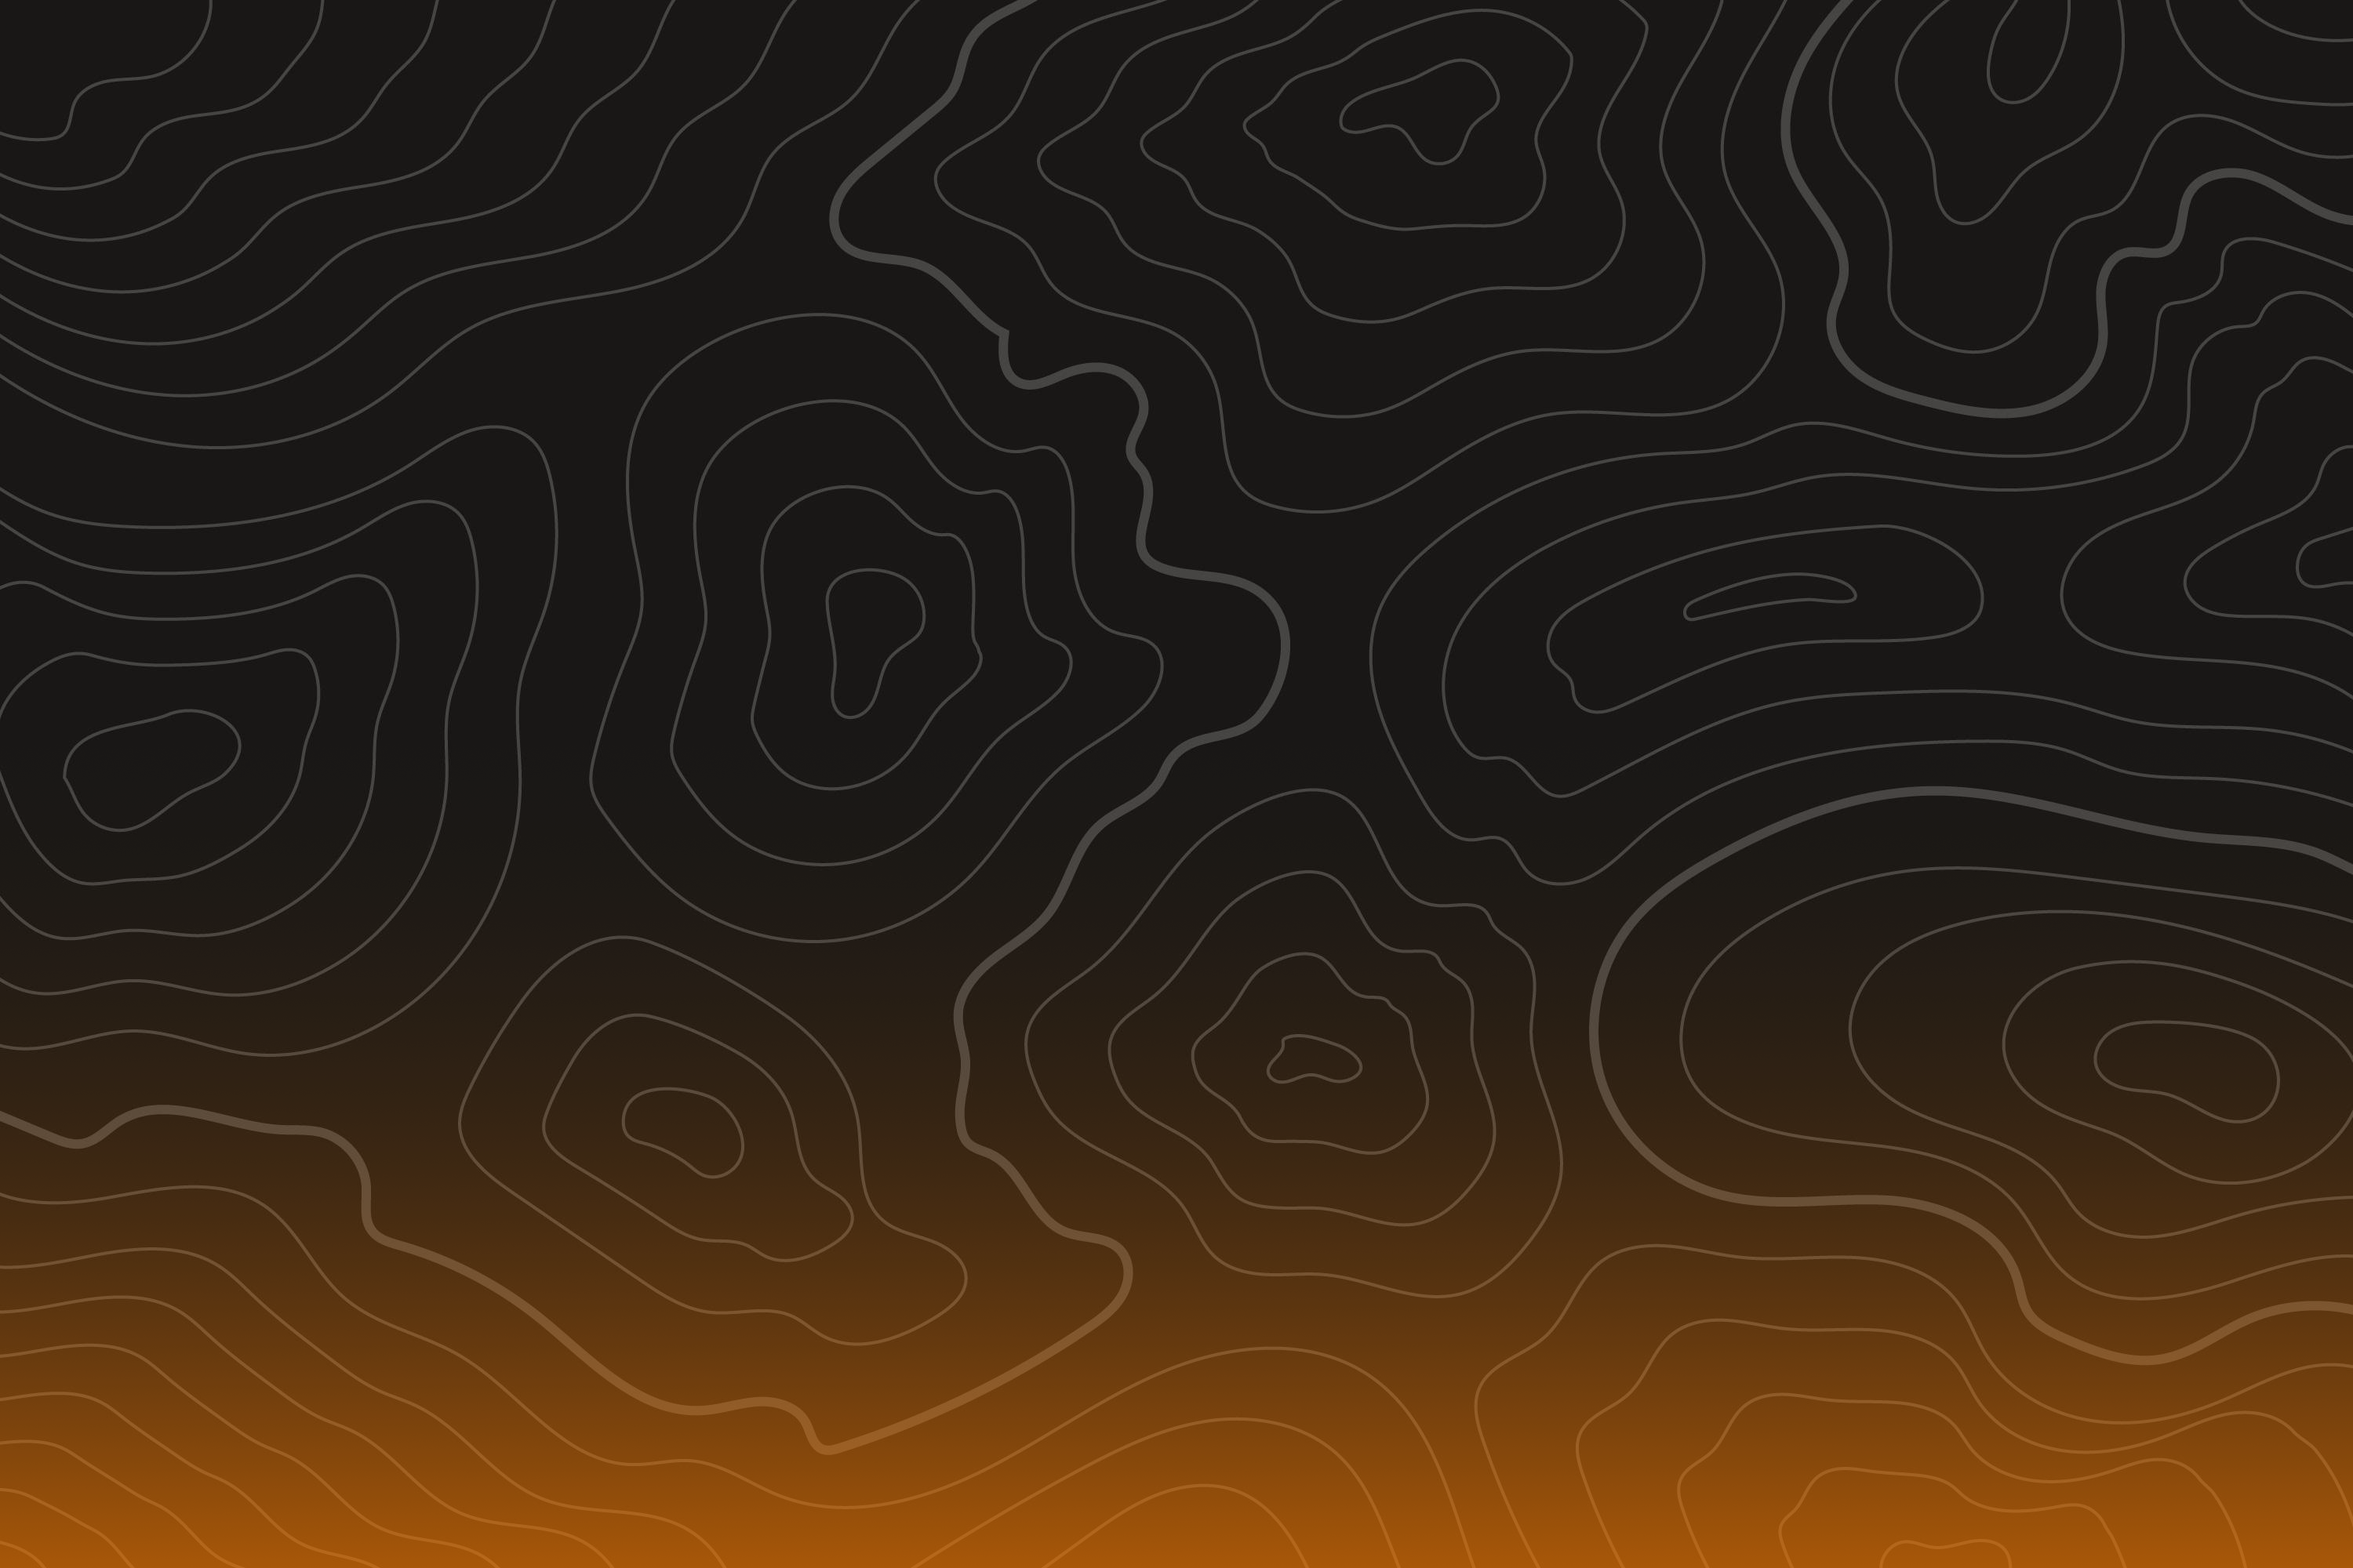
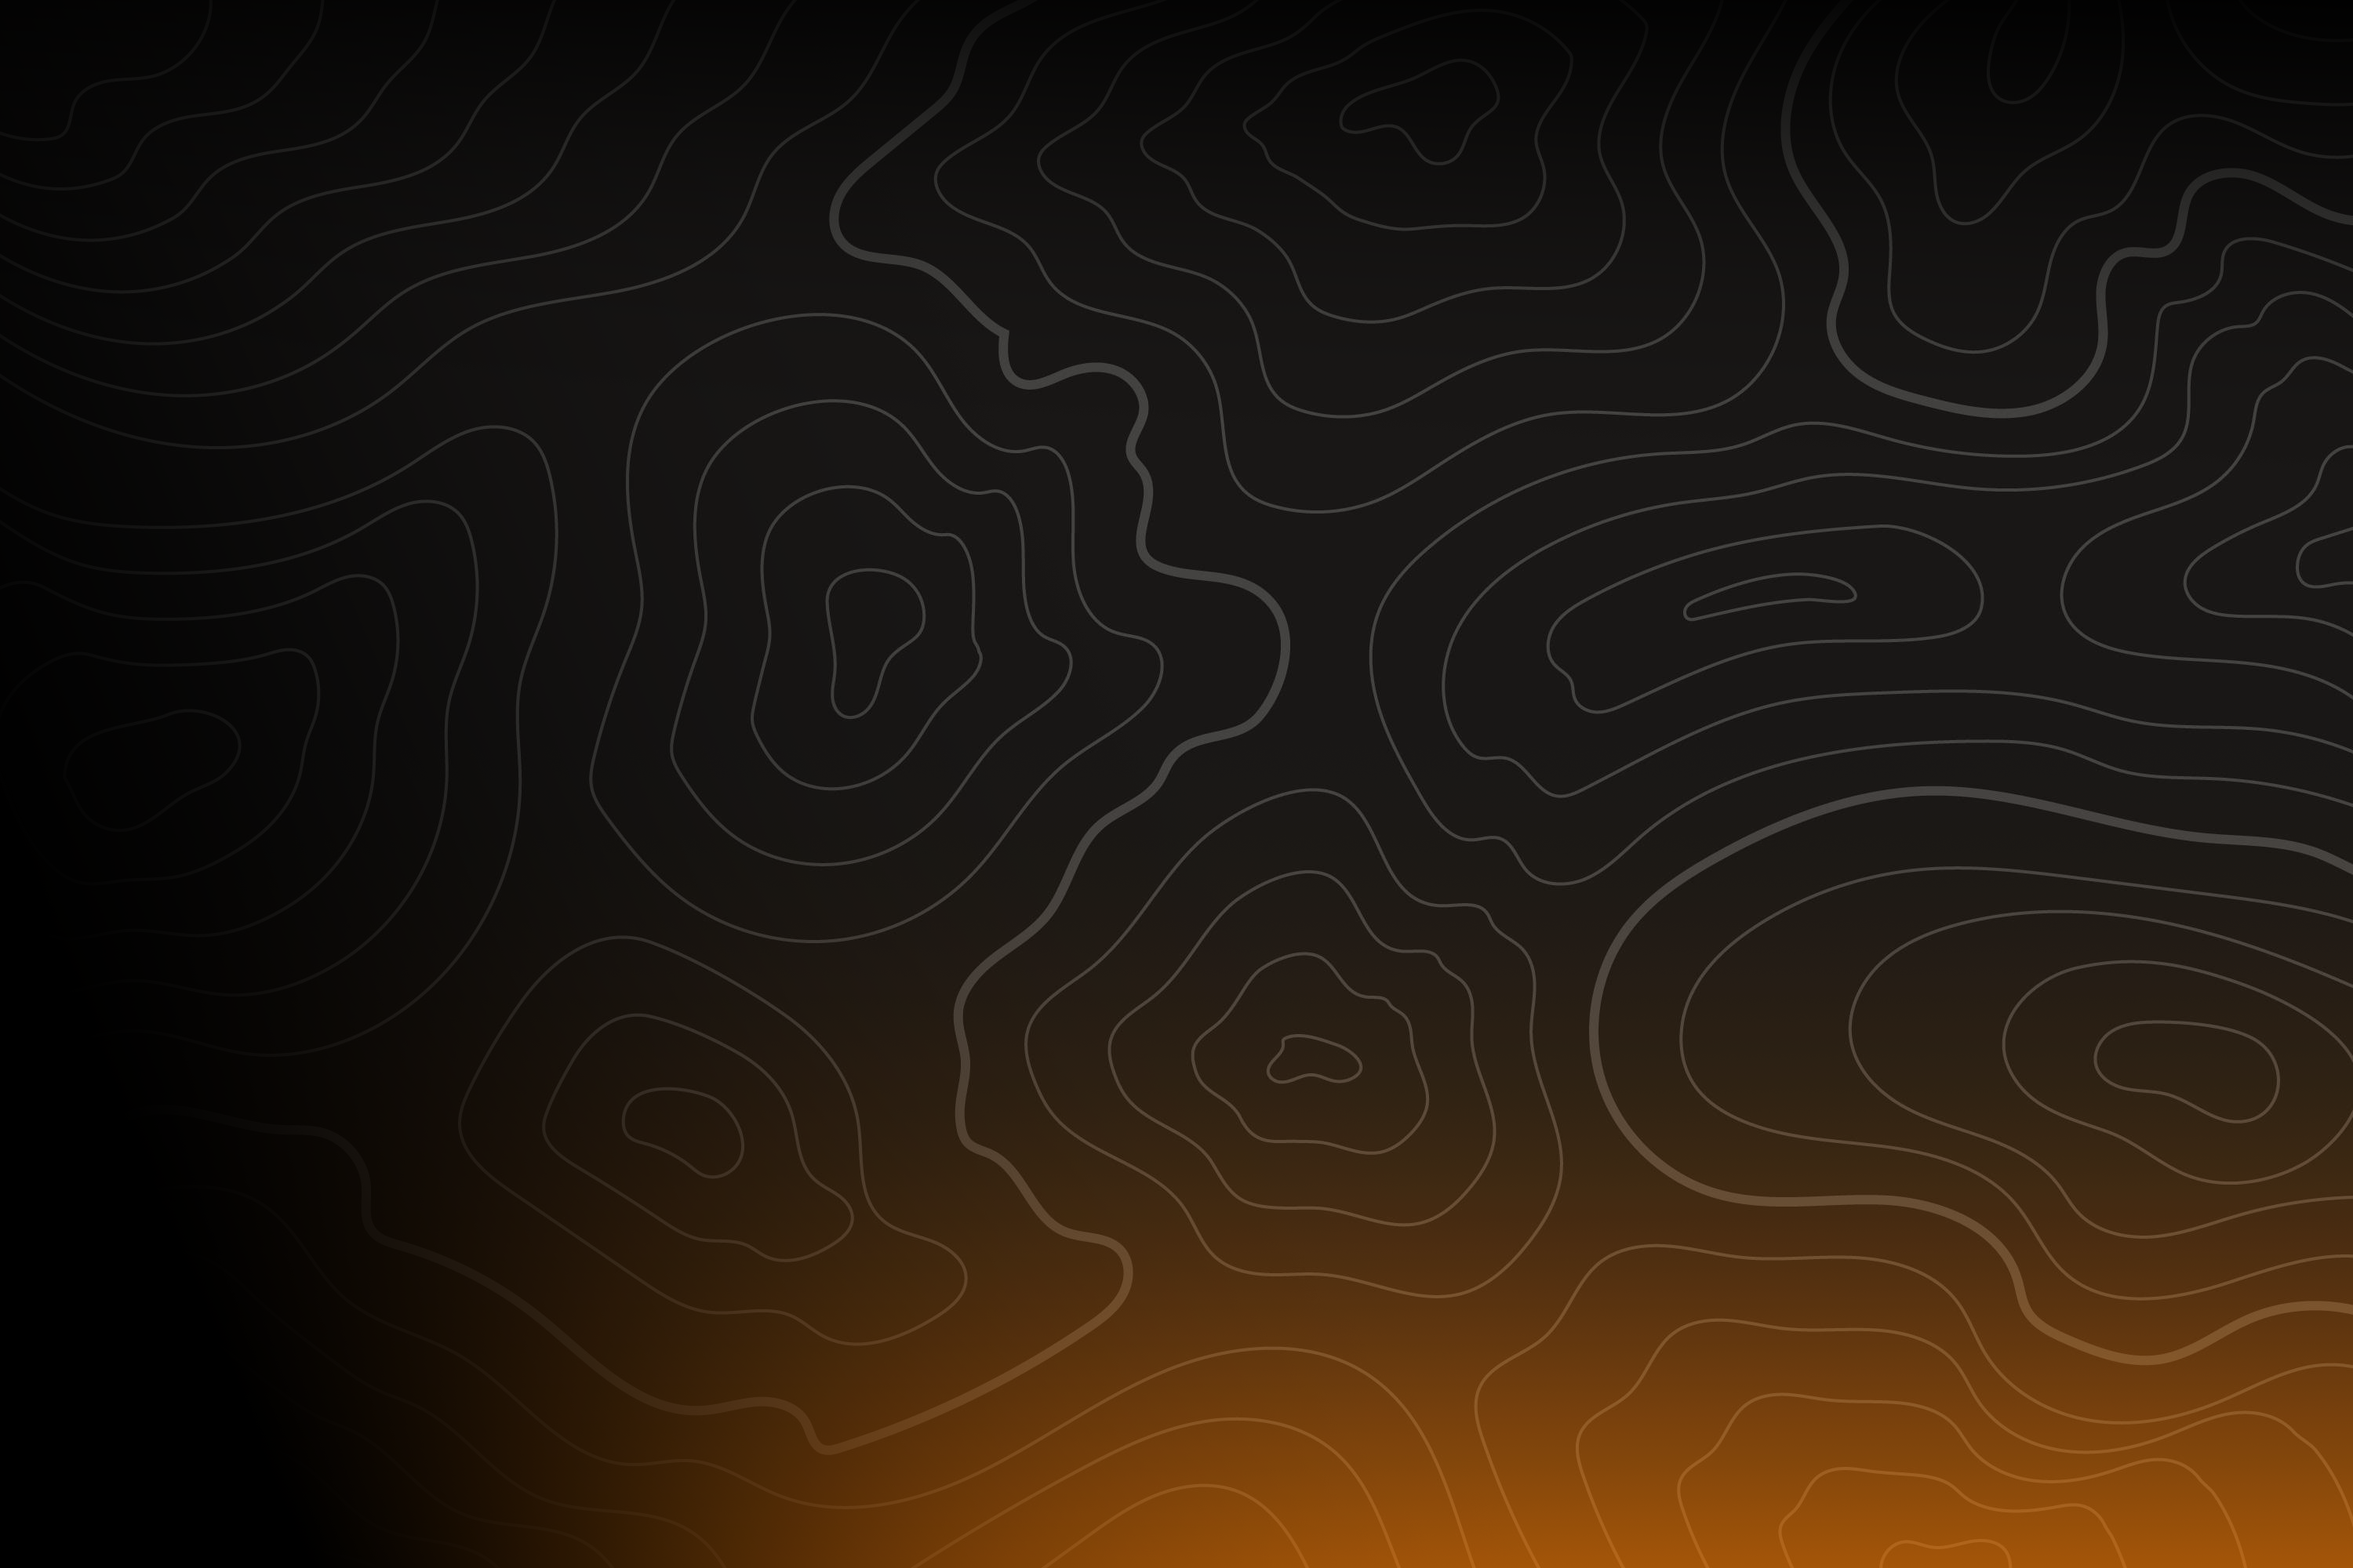
Add files via upload

diff --git a/styles/oyuncular.css b/styles/oyuncular.css
@@ -2,8 +2,7 @@
 body {
   background-color: #0f0e0e;
   background-image: url("Yeni_Proje_O.png");
-  background-repeat: repeat-y;
-  overflow-x: hidden;
+  background-size: cover;
   display:block;
   flex-direction:column;
   box-sizing: border-box;
@@ -113,6 +112,7 @@ height: auto;
 
 
 .sova {
+  animation-delay: 2s;
   animation: oyuncularanim 0.5s ease-out;
   z-index: 1;
   transition: 0.6s;
@@ -121,5 +121,19 @@ height: auto;
 }
 
 
+@media screen and (max-width: 600px) {
+  .playersbottom {
+    display: none;
+  }
+  .playerstop {
+    display: block;
+  }
+}
+
+@media screen and (min-width: 601px) {
+  .playerstop {
+    display: none;
+  }
+}
 
 

diff --git a/oyuncular.html b/oyuncular.html
@@ -8,7 +8,6 @@
     <link rel="stylesheet" href="styles/oyuncular.css" />
     <link rel="icon" href="fotolar/fjicon.png" />
     <link rel="stylesheet" href="styles/global.css" />
-    <link rel="script" href="script.js" />
   </head>
   <body>
 
@@ -44,6 +43,5 @@
 
     <img src="fotolar/premierlogo.png" class="premierlogo" />
 </div>    
-<script src="script.js"></script>
   </body>
 </html>

diff --git a/morningstar.html b/morningstar.html
@@ -3,7 +3,7 @@
 <head>
     <meta charset="UTF-8">
     <meta name="viewport" content="width=device-width, initial-scale=1.0">
-    <title>Morningstar</title>
+    <title>suffy</title>
     <link rel="icon" href="fotolar/fjicon.png" />
     <link rel="stylesheet" href="styles/global.css" />
     <link rel="stylesheet" href="styles/suffy.css" />

diff --git a/inf.html b/inf.html
@@ -3,7 +3,7 @@
 <head>
     <meta charset="UTF-8">
     <meta name="viewport" content="width=device-width, initial-scale=1.0">
-    <title>Inf2nity</title>
+    <title>suffy</title>
     <link rel="icon" href="fotolar/fjicon.png" />
     <link rel="stylesheet" href="styles/global.css" />
     <link rel="stylesheet" href="styles/suffy.css" />

diff --git a/mibos.html b/mibos.html
@@ -3,7 +3,7 @@
 <head>
     <meta charset="UTF-8">
     <meta name="viewport" content="width=device-width, initial-scale=1.0">
-    <title>Mibos</title>
+    <title>suffy</title>
     <link rel="icon" href="fotolar/fjicon.png" />
     <link rel="stylesheet" href="styles/global.css" />
     <link rel="stylesheet" href="styles/suffy.css" />
